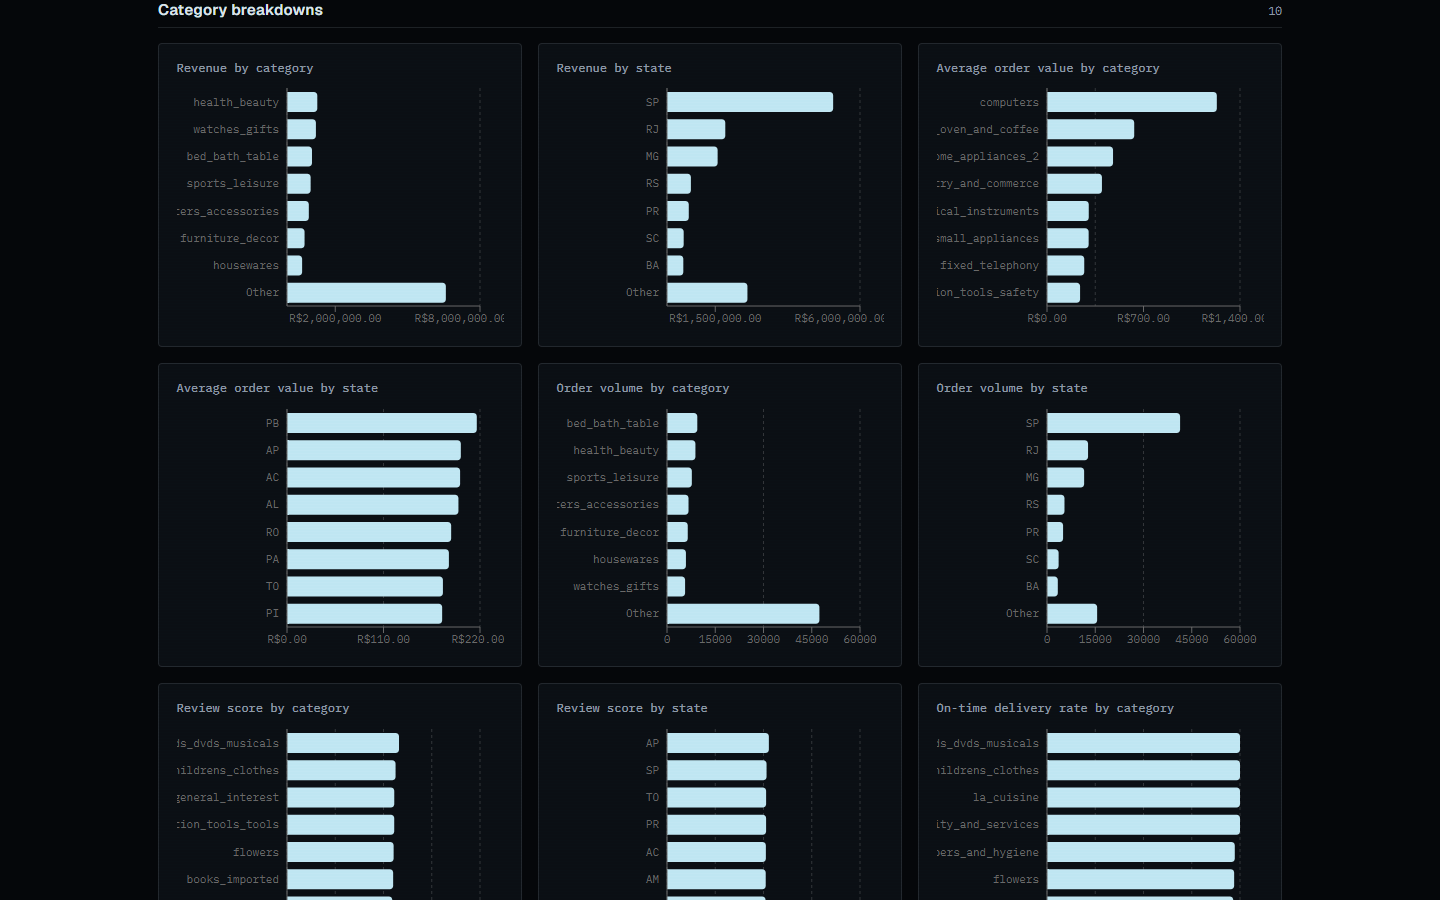
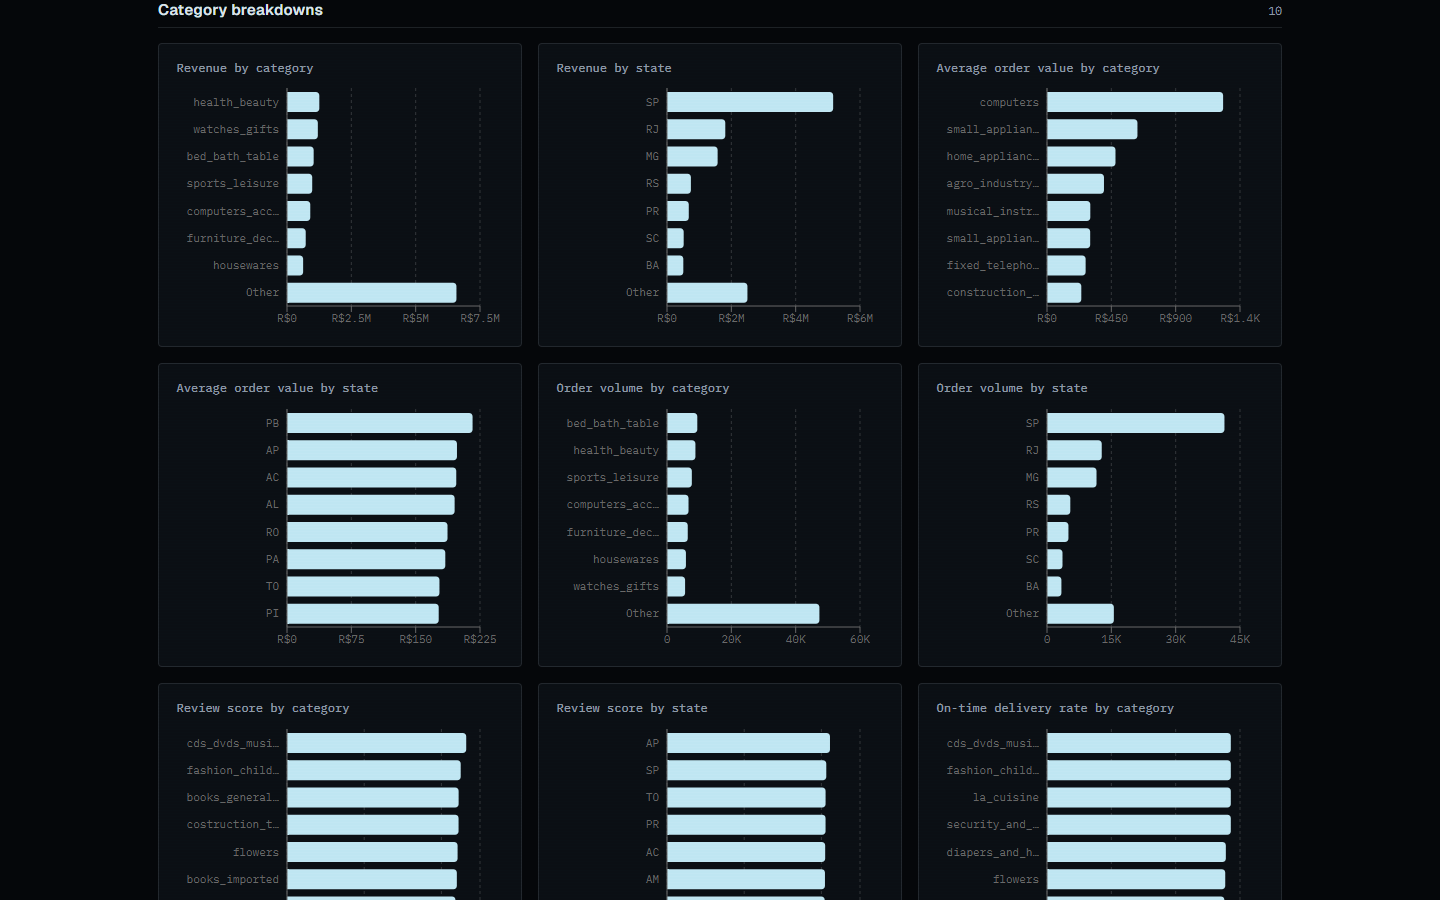
Tidy chart axes: compact ticks, bounded review score, readable labels
- Bar chart value axes use compact ticks (R$2.5M, 20K) instead of full
  currency strings that were clipped at the chart edge.
- The 1-5 review score is pinned to 0-5 on bar charts and 1-5 on the trend
  line, instead of an automatic axis that ran up to 8.
- Long category labels are cut from the end with an ellipsis rather than
  clipped at the start (":ers_accessories"); the tooltip keeps the full name.
- Refresh the README screenshots that show these axes.

diff --git a/frontend/src/app/dashboard/CategoryChart.tsx b/frontend/src/app/dashboard/CategoryChart.tsx
@@ -1,7 +1,8 @@
 "use client";
 
 import { Bar, BarChart, CartesianGrid, ResponsiveContainer, Tooltip, XAxis, YAxis } from "recharts";
-import { formatMetricValue } from "./currency";
+import { metricAxisDomain, truncateAxisLabel } from "./axes";
+import { formatMetricValue, formatMetricValueCompact } from "./currency";
 import styles from "./page.module.css";
 import type { CategoryBreakdownPoint } from "./types";
 
@@ -63,8 +64,10 @@ export default function CategoryChart({
           <CartesianGrid strokeDasharray="3 3" opacity={0.2} horizontal={false} />
           <XAxis
             type="number"
+            domain={metricAxisDomain(metric, "bar")}
+            tickCount={4}
             tick={{ fontSize: 11, fontFamily: "var(--font-plex-mono)" }}
-            tickFormatter={(value: number) => formatMetricValue(metric, value)}
+            tickFormatter={(value: number) => formatMetricValueCompact(metric, value)}
           />
           <YAxis
             type="category"
@@ -72,6 +75,7 @@ export default function CategoryChart({
             tick={{ fontSize: 11, fontFamily: "var(--font-plex-mono)" }}
             width={110}
             tickLine={false}
+            tickFormatter={truncateAxisLabel}
           />
           <Tooltip
             contentStyle={{

diff --git a/frontend/src/app/dashboard/axes.test.ts b/frontend/src/app/dashboard/axes.test.ts
@@ -1,0 +1,28 @@
+import { metricAxisDomain, truncateAxisLabel } from "./axes";
+
+describe("metricAxisDomain", () => {
+  it("pins bar charts of the 1-5 review score to 0-5 instead of an auto range up to 8", () => {
+    expect(metricAxisDomain("average_review_score", "bar")).toEqual([0, 5]);
+  });
+
+  it("lets a review score trend line zoom into the 1-5 rating scale", () => {
+    expect(metricAxisDomain("average_review_score", "line")).toEqual([1, 5]);
+  });
+
+  it("leaves every other metric on the automatic range from zero", () => {
+    expect(metricAxisDomain("total_revenue", "bar")).toEqual([0, "auto"]);
+    expect(metricAxisDomain("churn_rate", "line")).toEqual([0, "auto"]);
+  });
+});
+
+describe("truncateAxisLabel", () => {
+  it("keeps short labels unchanged", () => {
+    expect(truncateAxisLabel("health_beauty")).toBe("health_beauty");
+  });
+
+  it("cuts long labels from the end with an ellipsis so the start stays readable", () => {
+    const result = truncateAxisLabel("computers_accessories");
+    expect(result).toBe("computers_acc…");
+    expect(result).toHaveLength(14);
+  });
+});

diff --git a/frontend/src/app/dashboard/axes.ts b/frontend/src/app/dashboard/axes.ts
@@ -1,0 +1,22 @@
+// Longest category label (in characters) that fits the bar chart's 110px label column.
+const MAX_LABEL_CHARS = 14;
+
+// The review score is a 1-5 rating, so an automatic axis (which rounds up to 8) misleads.
+const REVIEW_SCORE_METRIC = "average_review_score";
+
+// Picks a value-axis domain for a metric: bars must start at zero, but a line chart of a
+// bounded rating reads better zoomed into its scale.
+export function metricAxisDomain(metric: string, chart: "bar" | "line"): [number, number | "auto"] {
+  if (metric === REVIEW_SCORE_METRIC) {
+    return chart === "bar" ? [0, 5] : [1, 5];
+  }
+  return [0, "auto"];
+}
+
+// Shortens a long category label from the end ("computers_acc…"); the tooltip shows the full name.
+export function truncateAxisLabel(label: string): string {
+  if (label.length <= MAX_LABEL_CHARS) {
+    return label;
+  }
+  return `${label.slice(0, MAX_LABEL_CHARS - 1)}…`;
+}

diff --git a/frontend/src/app/dashboard/TrendChart.tsx b/frontend/src/app/dashboard/TrendChart.tsx
@@ -9,6 +9,7 @@ import {
   XAxis,
   YAxis,
 } from "recharts";
+import { metricAxisDomain } from "./axes";
 import { formatMetricValue, formatMetricValueCompact } from "./currency";
 import styles from "./page.module.css";
 import type { MonthlyTrendPoint } from "./types";
@@ -48,6 +49,7 @@ export default function TrendChart({
             minTickGap={20}
           />
           <YAxis
+            domain={metricAxisDomain(metric, "line")}
             tick={{ fontSize: 11, fontFamily: "var(--font-plex-mono)" }}
             width={64}
             tickFormatter={(value: number) => formatMetricValueCompact(metric, value)}
